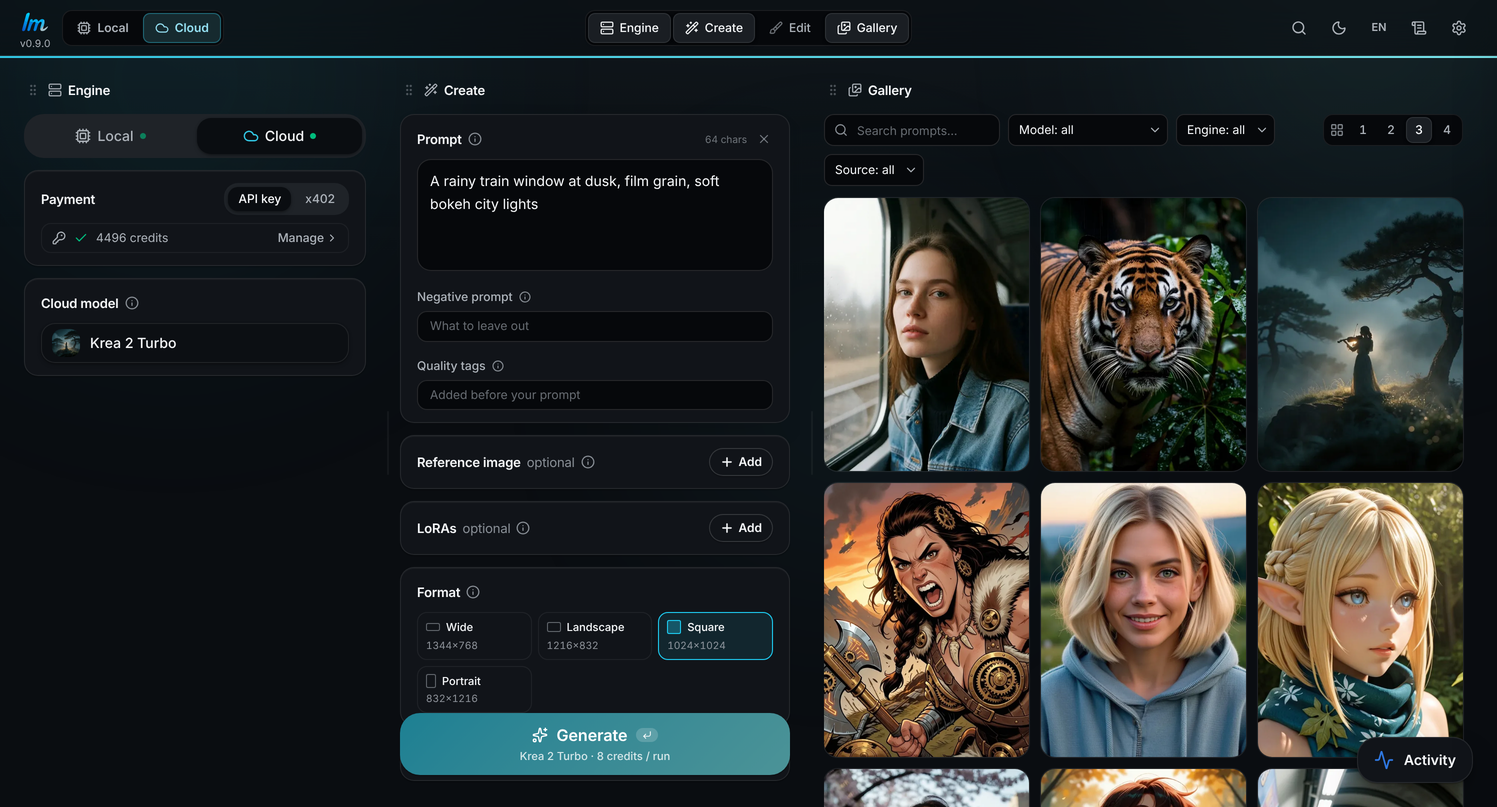
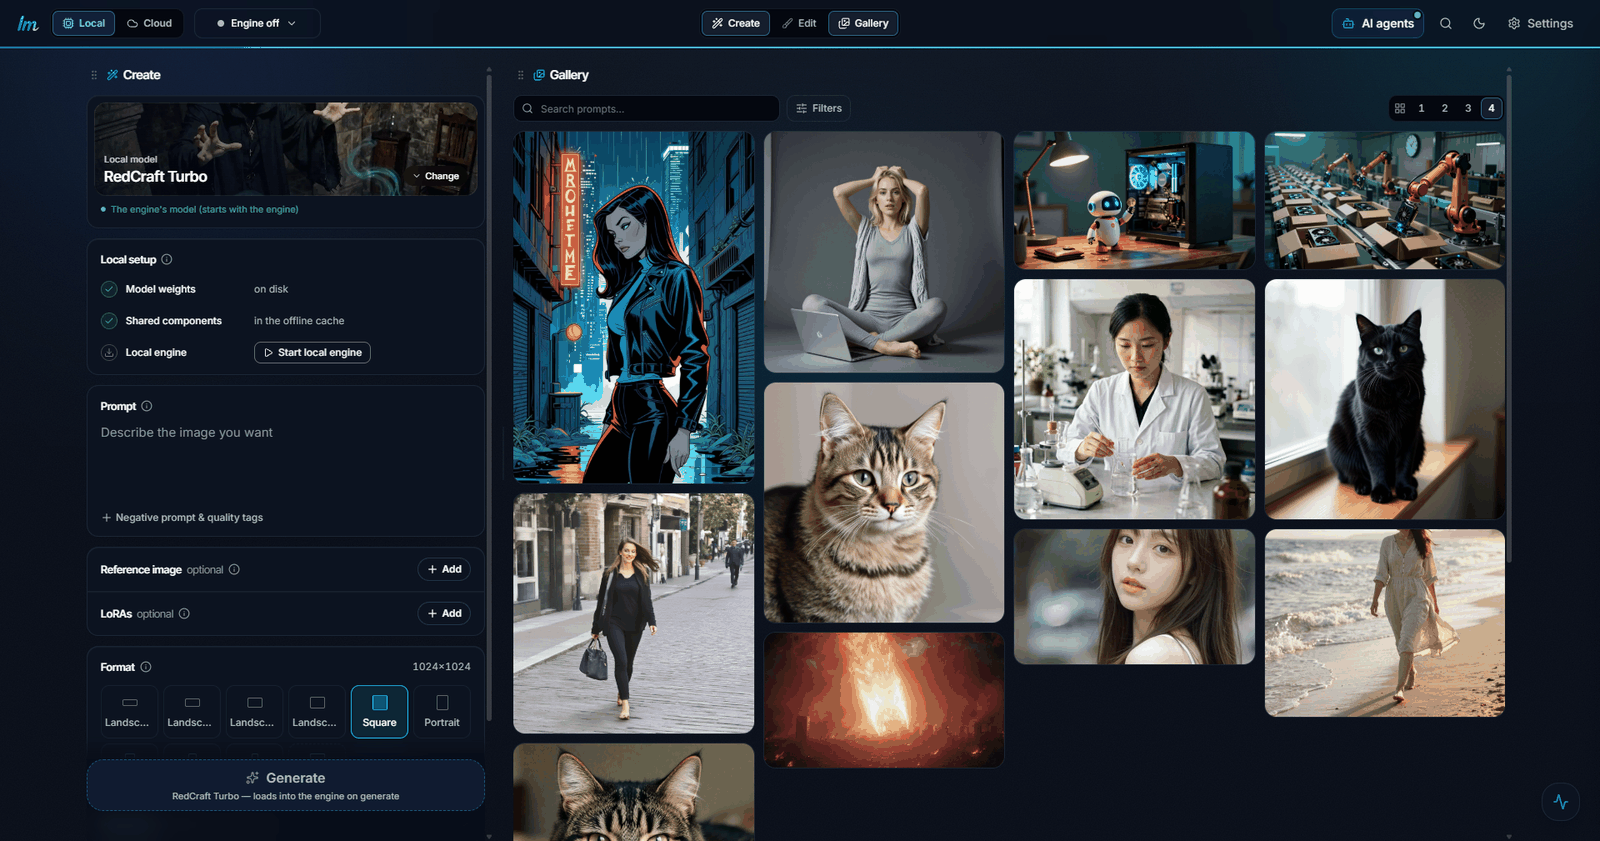
docs(readme): screenshots of the current interface
New hero (local mode) plus cloud mode, the model picker and the instruction
editor, placed next to the section each one illustrates.

diff --git a/README.zh-CN.md b/README.zh-CN.md
@@ -29,25 +29,24 @@
 在自己的 GPU 上免费生成，或者拨一下开关，把同一条提示词交给云端运行。
 同一个界面、同一个图库、同一套工具：不用重新学习，每张图在哪里运行由你决定。
 
+<div align="center">
+<img src="docs/screenshots/cloud.png" alt="云端模式：同一个界面，一个开关" width="720" />
+</div>
+
 ### ⚡ 几分钟就能出图
 
 安装、打开、选一个模型、点击生成。应用会安装自带的引擎、检测你的 GPU，
 并替你下载权重。每个精选模型都已预调好参数，第一张图就有不错的效果。
 无需命令行，无需折腾 CUDA。
 
+<div align="center">
+<img src="docs/screenshots/models.png" alt="模型选择" width="720" />
+</div>
+
 ### 🙅 无需账号
 
 本地生成什么都不需要：不用注册，不用邮箱，提示词和图片永远不会离开你的电脑。
 用 x402（Base 链 USDC）付费时，连云端也不需要账号。
-
-<div align="center">
-
-<!-- 更多截图：把图片放进 docs/screenshots/ 后取消注释。
-<img src="docs/screenshots/models.png" alt="模型选择" width="400" /> <img src="docs/screenshots/gallery.png" alt="图库" width="400" />
-<img src="docs/screenshots/tools.png" alt="编辑工具" width="400" /> <img src="docs/screenshots/cloud.png" alt="云端模式" width="400" />
--->
-
-</div>
 
 <a id="download"></a>
 
@@ -122,6 +121,10 @@
   支持筛选、搜索，并可复用以前的参数。
 - 🎛 **真正的参数控制，界面简洁。** 画幅、步数、引导强度、种子、负面提示词、
   图生图。任务可排队，生成中途也能切换模型。
+
+<div align="center">
+<img src="docs/screenshots/tools.png" alt="按指令编辑" width="720" />
+</div>
 
 ## 系统要求
 

diff --git a/README.md b/README.md
@@ -30,6 +30,10 @@ Generate on your own GPU for free, or flip a switch and run the same prompt in
 the cloud. Same screen, same gallery, same tools: nothing new to learn, and you
 decide where each image runs.
 
+<div align="center">
+<img src="docs/screenshots/cloud.png" alt="Cloud mode: same screen, one switch" width="720" />
+</div>
+
 ### ⚡ Running in minutes
 
 Install, open, pick a model, hit Generate. The app sets up its own engine,
@@ -37,20 +41,15 @@ detects your GPU and downloads the weights for you. Every curated model arrives
 pre-tuned, so your first image already looks right. No terminal, no CUDA
 wrestling.
 
+<div align="center">
+<img src="docs/screenshots/models.png" alt="Model picker" width="720" />
+</div>
+
 ### 🙅 No account
 
 Local generation asks for nothing: no sign-up, no email, and your prompts and
 pictures never leave your machine. Even the cloud works without an account
 when you pay with x402 (USDC on Base).
-
-<div align="center">
-
-<!-- More screenshots: drop the captures in docs/screenshots/ then uncomment.
-<img src="docs/screenshots/models.png" alt="Model picker" width="400" /> <img src="docs/screenshots/gallery.png" alt="Gallery" width="400" />
-<img src="docs/screenshots/tools.png" alt="Editing tools" width="400" /> <img src="docs/screenshots/cloud.png" alt="Cloud mode" width="400" />
--->
-
-</div>
 
 <a id="download"></a>
 
@@ -130,6 +129,10 @@ Supported model families:
   prompt, model and settings. Filter, search, reuse a past recipe.
 - 🎛 **Real controls, simple screen.** Format, steps, guidance, seed, negative
   prompt, image-to-image. Queue generations and switch models mid-run.
+
+<div align="center">
+<img src="docs/screenshots/tools.png" alt="Edit with instructions" width="720" />
+</div>
 
 ## Requirements
 
